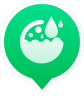
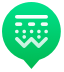
fix:图标

diff --git a/src/views/Home/homeTangBa.vue b/src/views/Home/homeTangBa.vue
@@ -201,14 +201,14 @@ const getMenuDataList = async () => {
     '103': 'Weather',
     '159': 'Weather',
     '81': 'Weather',
-    '86': 'Soil',
+    '86': 'Water',
     '104': 'Soil',
     '107': 'Bug',
     '88': 'Bug',
     '109': 'Monitor',
     '110': 'Grow',
-    '112': 'Bug',
-    '113': 'Soil',
+    '112': 'Weather',
+    '113': 'Water',
     '119': 'Weather',
     '148': 'Monitor',
     '152': 'Grow',
@@ -293,14 +293,14 @@ const getIconClass = (item) => {
     '103': 'weather',
     '159': 'weather',
     '81': 'weather',
-    '86': 'soil',
+    '86': 'water',
     '104': 'soil',
     '107': 'bug',
     '88': 'bug',
     '109': 'monitor',
     '110': 'grow',
-    '112': 'bug',
-    '113': 'soil',
+    '112': 'weather',
+    '113': 'water',
     '119': 'weather',
     '148': 'monitor',
     '152': 'grow',
@@ -359,7 +359,9 @@ const getIconClass = (item) => {
 .online-weather,
 .offline-weather,
 .online-grow,
-.offline-grow {
+.offline-grow,
+.online-water,
+.offline-water {
   background-size: 100% auto;
 }
 .online-bug {
@@ -395,5 +397,11 @@ const getIconClass = (item) => {
 }
 .offline-grow {
   background-image: url(./assets/tangba/offlineGrow.png);
+}
+.online-water {
+  background-image: url(./assets/tangba/onlineWater.png);
+}
+.offline-water {
+  background-image: url(./assets/tangba/offlineWater.png);
 }
 </style>
